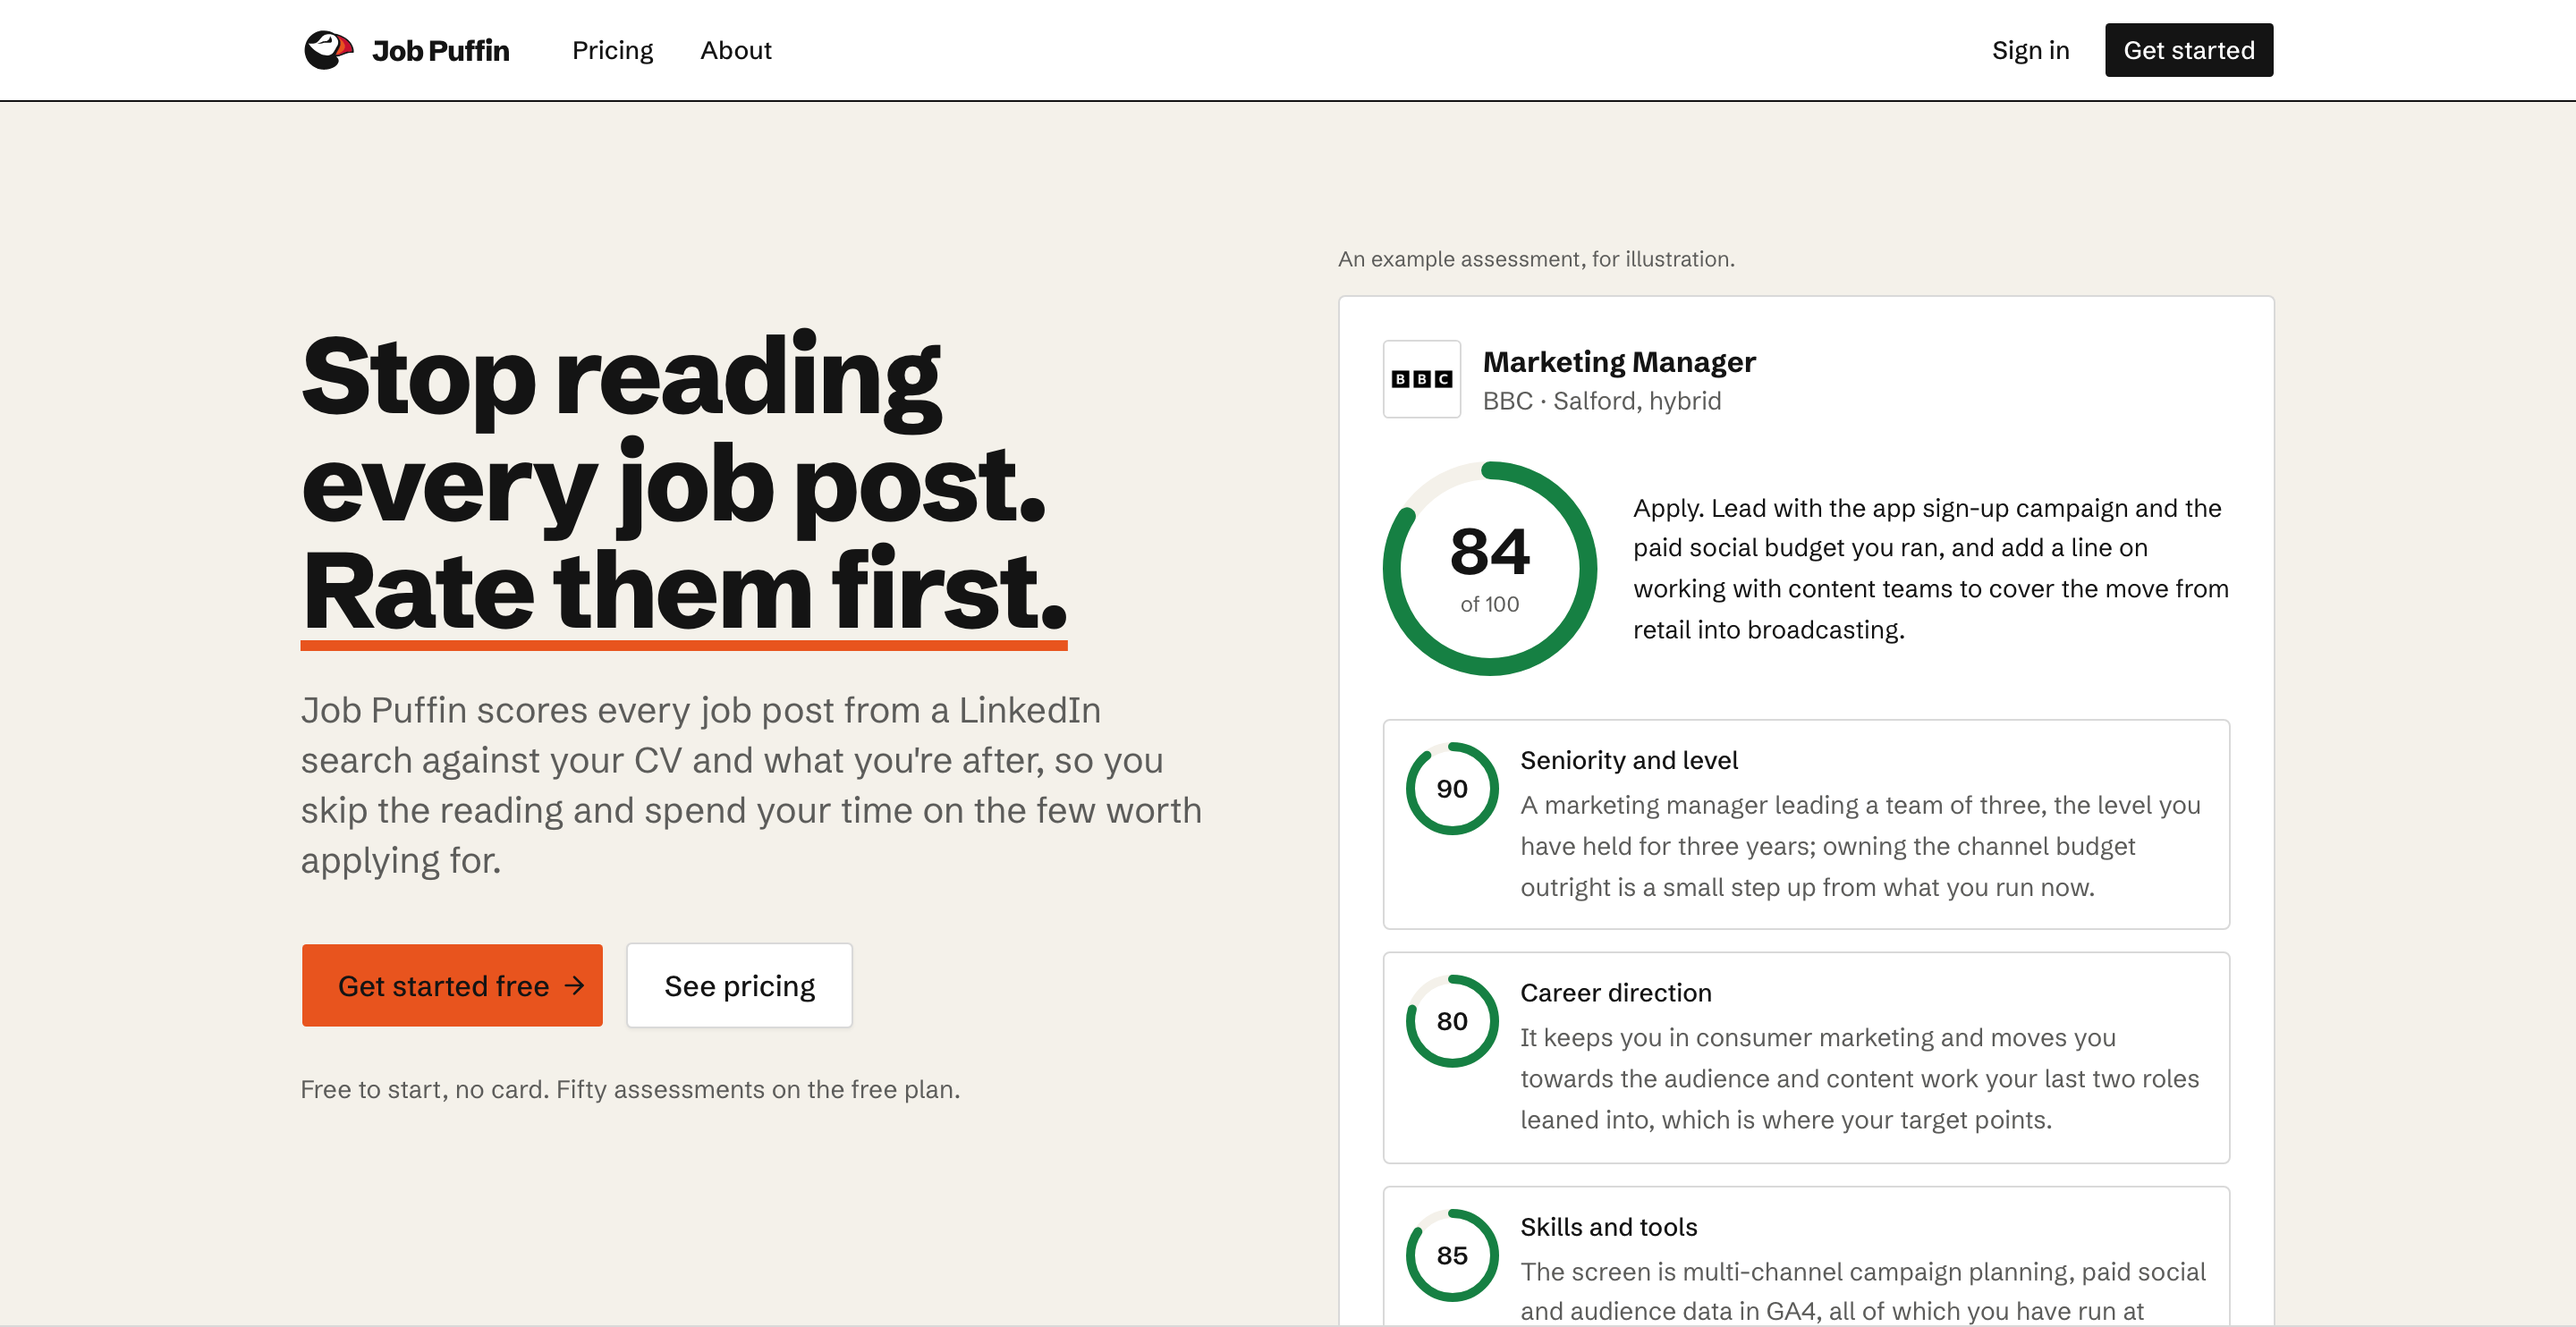
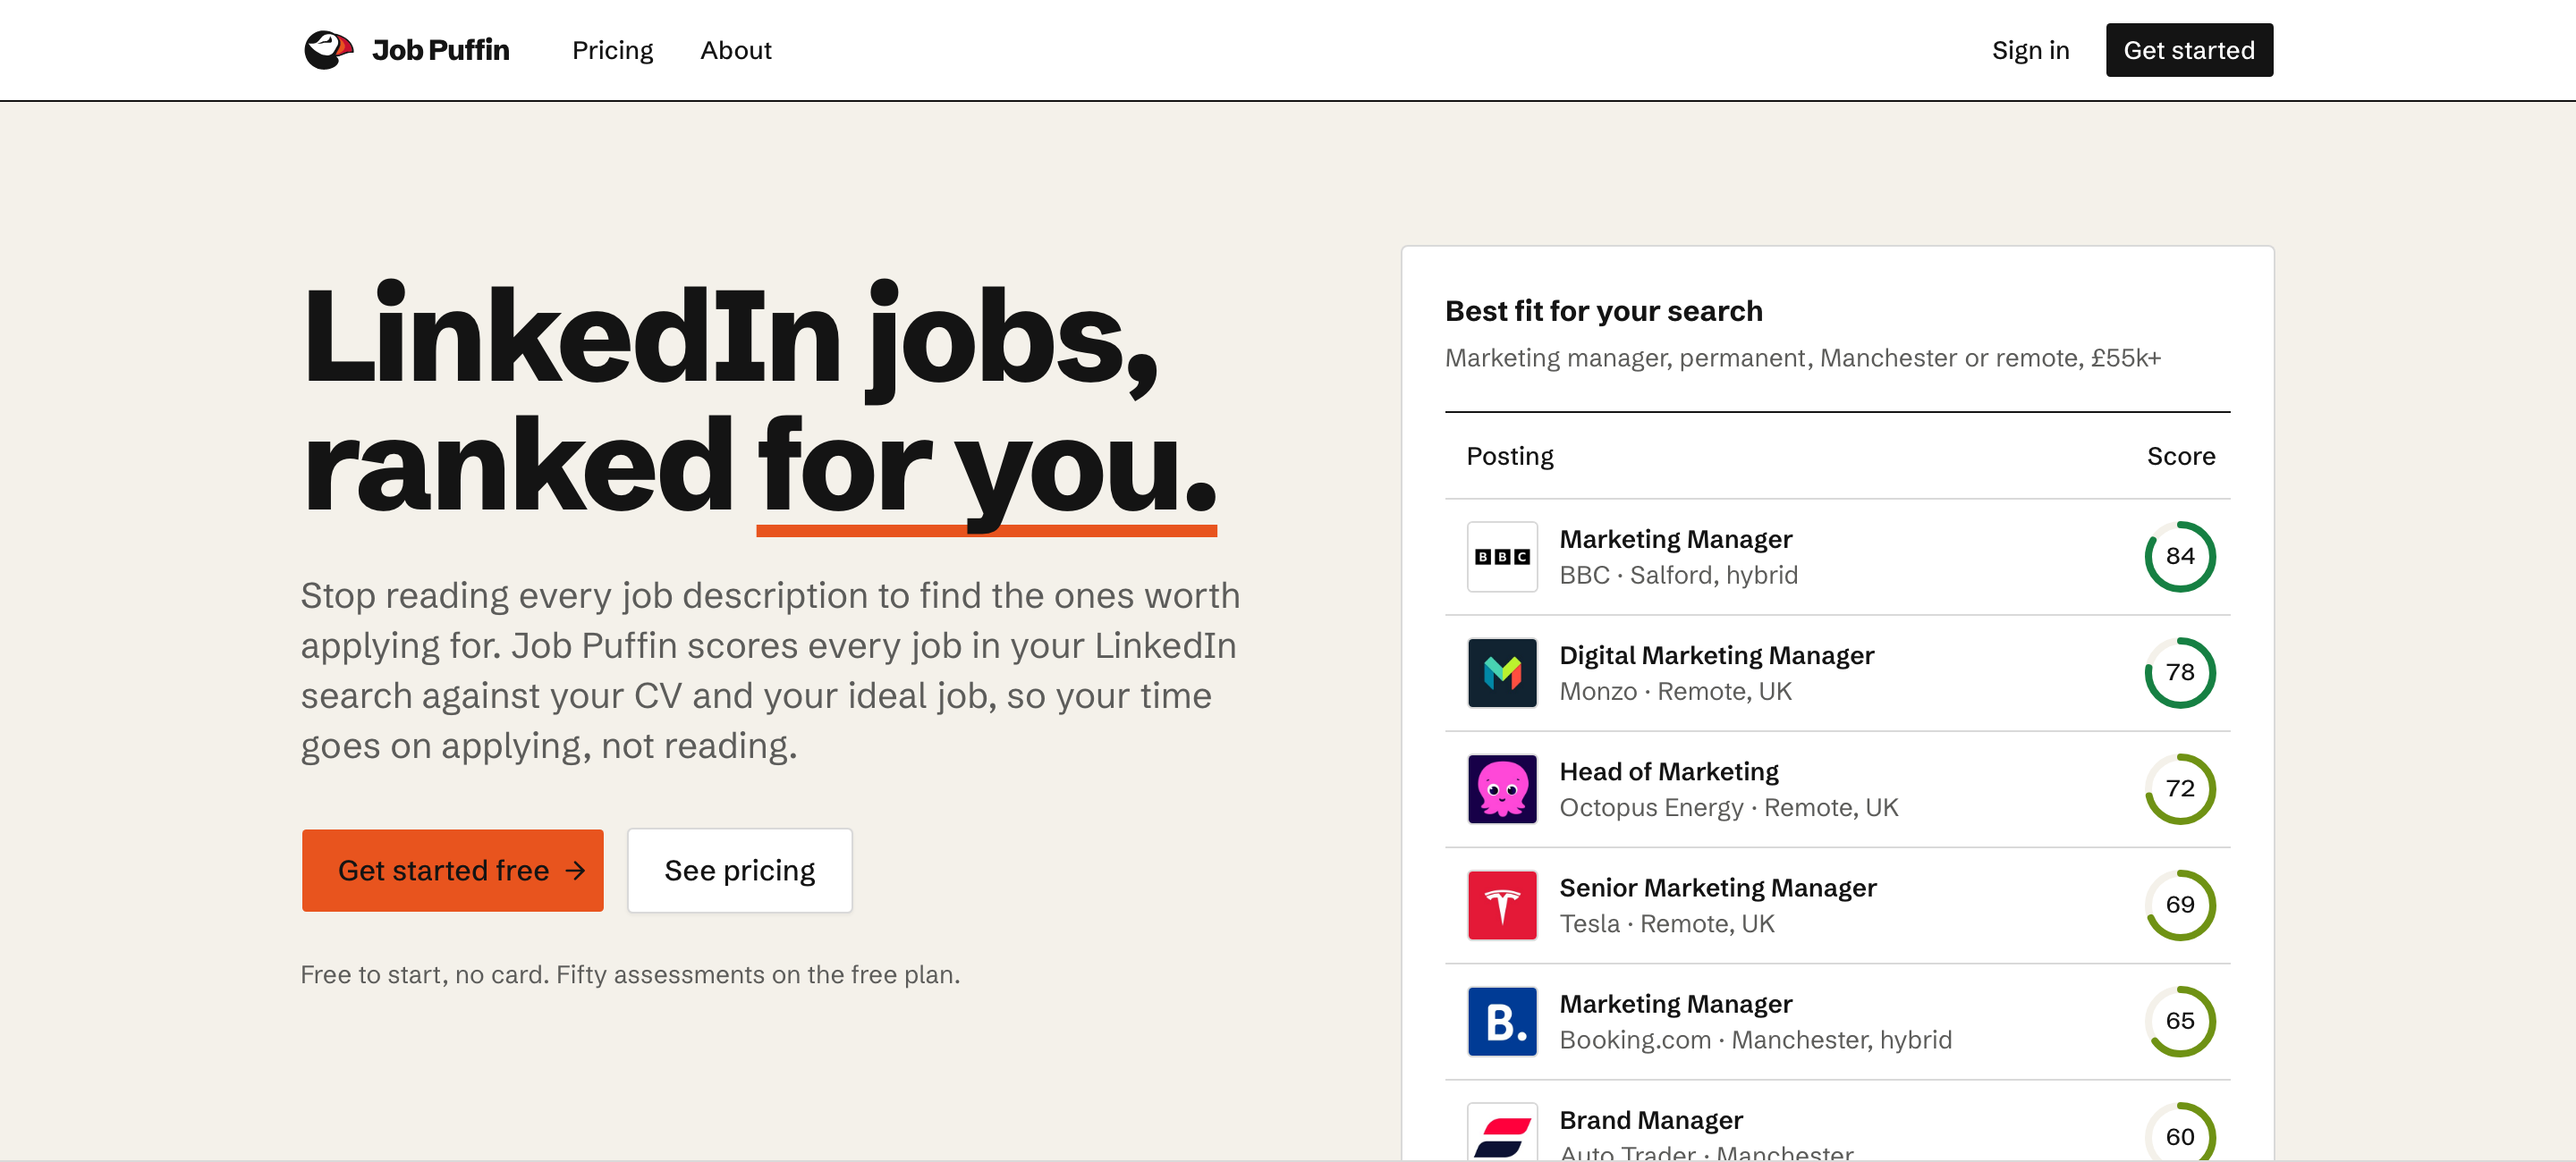
Image update

diff --git a/app/work/job-puffin/page.tsx b/app/work/job-puffin/page.tsx
@@ -98,10 +98,10 @@ export default function JobPuffin() {
       <div className="px-4">
         <ExpandableImage
           src="/job-puffin/home.png"
-          alt="Job Puffin homepage with an example job assessment"
+          alt="Job Puffin homepage with LinkedIn jobs ranked by score"
           className="rounded-lg mx-auto border-1 border-gray-200"
           width={2880}
-          height={1484}
+          height={1300}
         />
       </div>
 

diff --git a/app/sitemap.ts b/app/sitemap.ts
@@ -10,7 +10,7 @@ export default function sitemap(): MetadataRoute.Sitemap {
     { url: `${BASE_URL}/contact`, lastModified: "2026-08-03" },
     {
       url: `${BASE_URL}/work/job-puffin`,
-      lastModified: "2026-10-26",
+      lastModified: "2026-10-27",
     },
     {
       url: `${BASE_URL}/work/mock-chats`,
